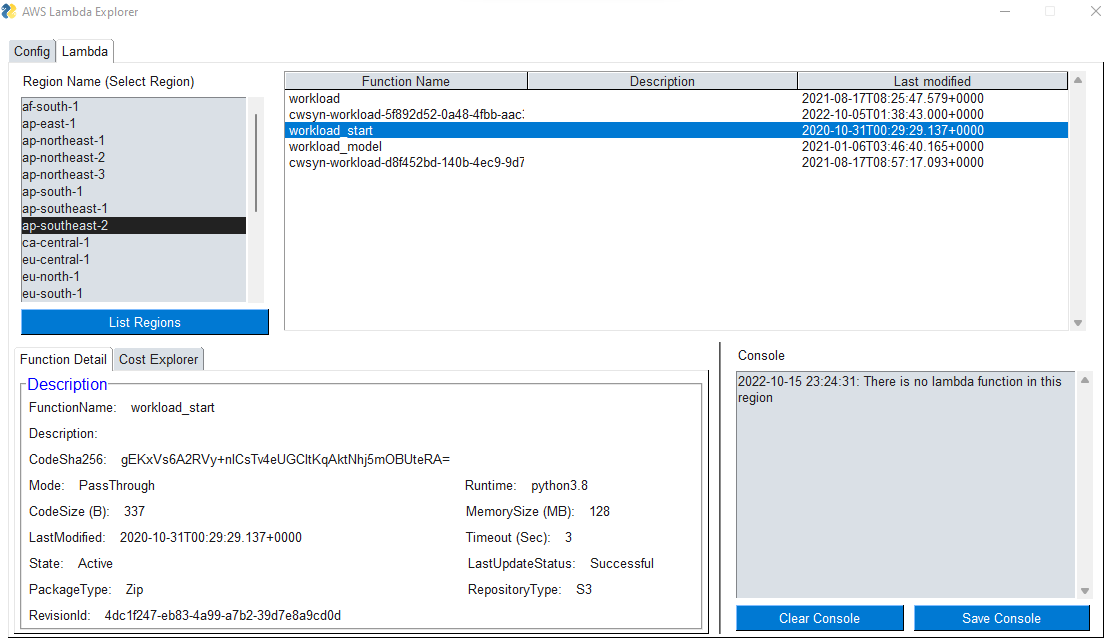
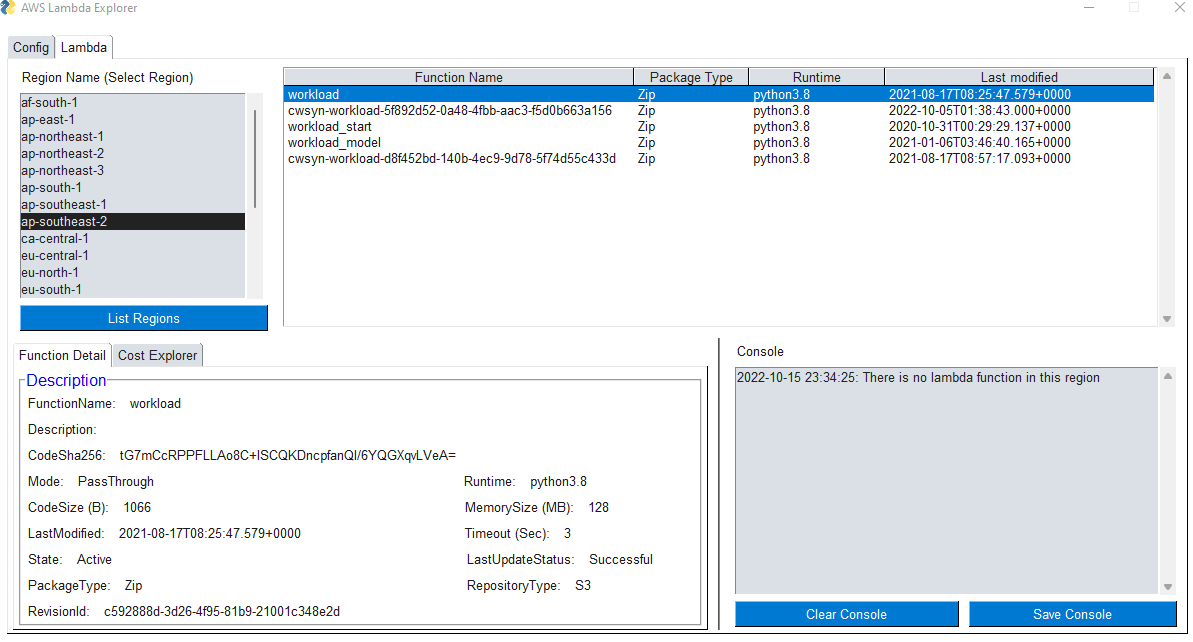
updated code

Changed region(s): [[0.0, 0.0, 1.0, 0.9969], [0.9775, 0.0, 1.0, 0.0312], [0.5804, 0.4984, 0.611, 0.5296]]

diff --git a/aws_lambda_explorer.py b/aws_lambda_explorer.py
@@ -30,8 +30,8 @@ sg.theme('Reddit')
 
 Console =[
     [sg.Text("Console")],
-    [sg.Multiline(size=(48, 14),key="-CONSOLEMSG-",disabled=True)],
-    [sg.B("Clear Console",size=(20, 1)),sg.B("Save Console",size=(21, 1))]
+    [sg.Multiline(size=(60, 14),key="-CONSOLEMSG-",disabled=True)],
+    [sg.B("Clear Console",size=(27, 1)),sg.B("Save Console",size=(25, 1))]
     ]
 
 frame_layout = [
@@ -56,7 +56,7 @@ cost_expl=[]
 
 
 funct_list =[
-     [sg.Table(values=lambda_func_list_data,key="_list_", headings=['Function Name', 'Description','Last modified'],auto_size_columns=False, col_widths=[27, 30, 30],  num_rows=15,justification='left',enable_events=True )]
+     [sg.Table(values=lambda_func_list_data,key="_list_", headings=['Function Name', 'Package Type','Runtime','Last modified'],auto_size_columns=False, col_widths=[27, 30, 30],  num_rows=15,justification='left',enable_events=True )]
     ]
 
 Region = [
@@ -130,7 +130,8 @@ def get_lambda_function_list(REGION_NAME,window):
         else:
             for function in response['Functions']:
                 lambda_func_list_data.append([function['FunctionName'], 
-                                  function['Description'], 
+                                  function['PackageType'], 
+                                  function['Runtime'],
                                   function['LastModified']])
         
         return lambda_func_list_data
